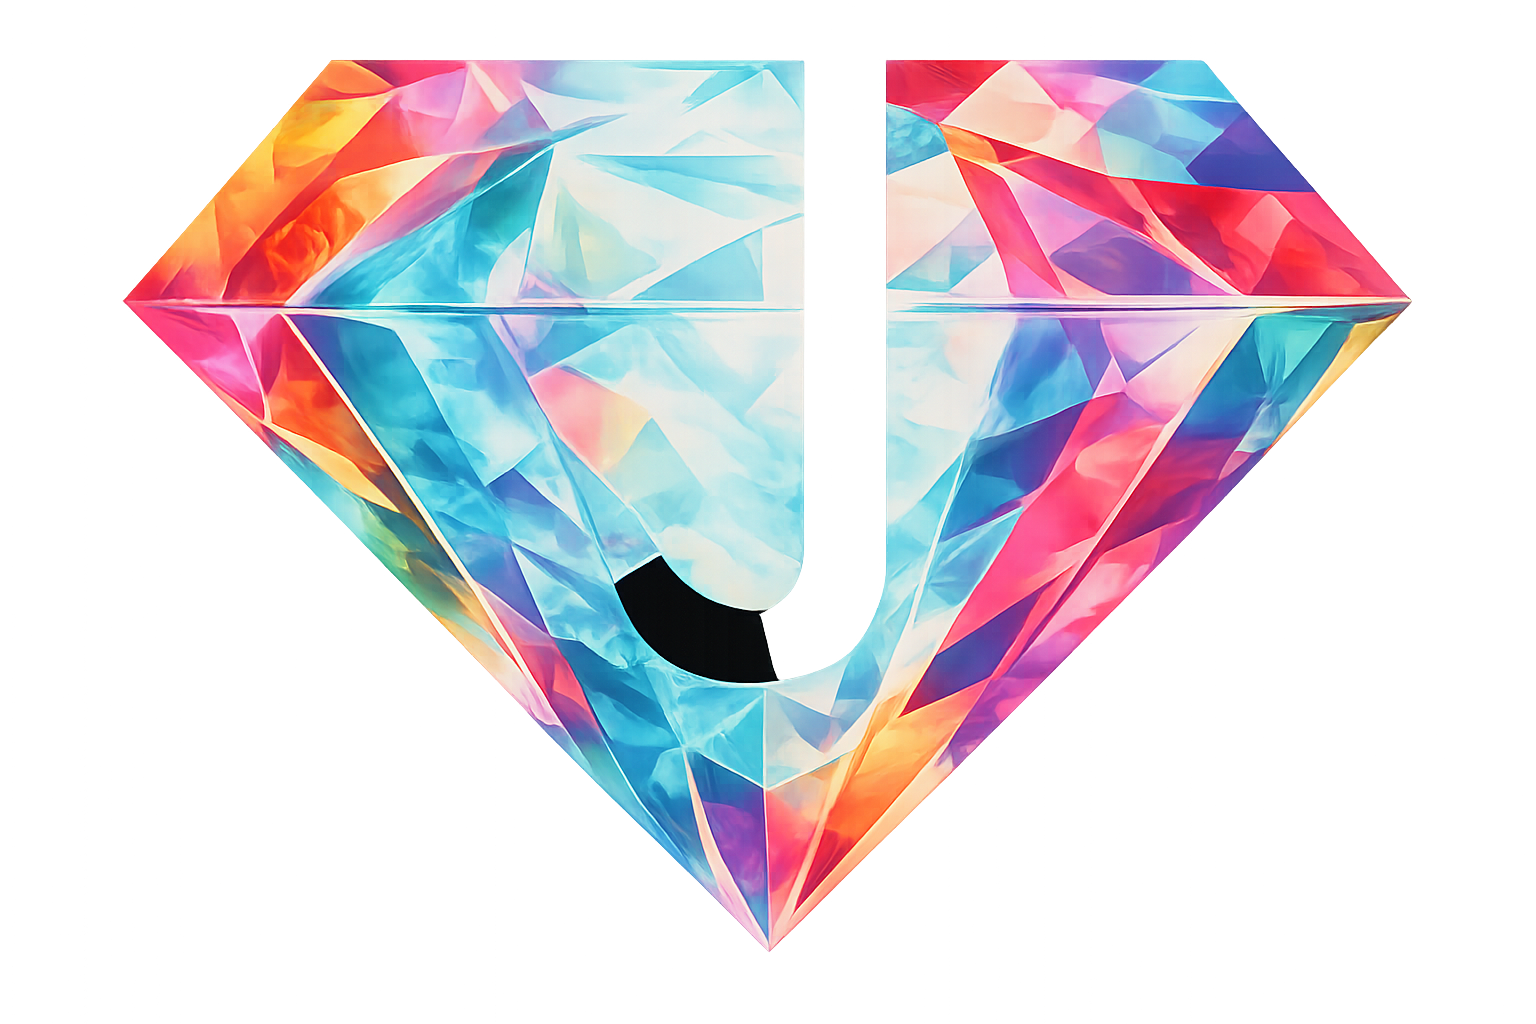
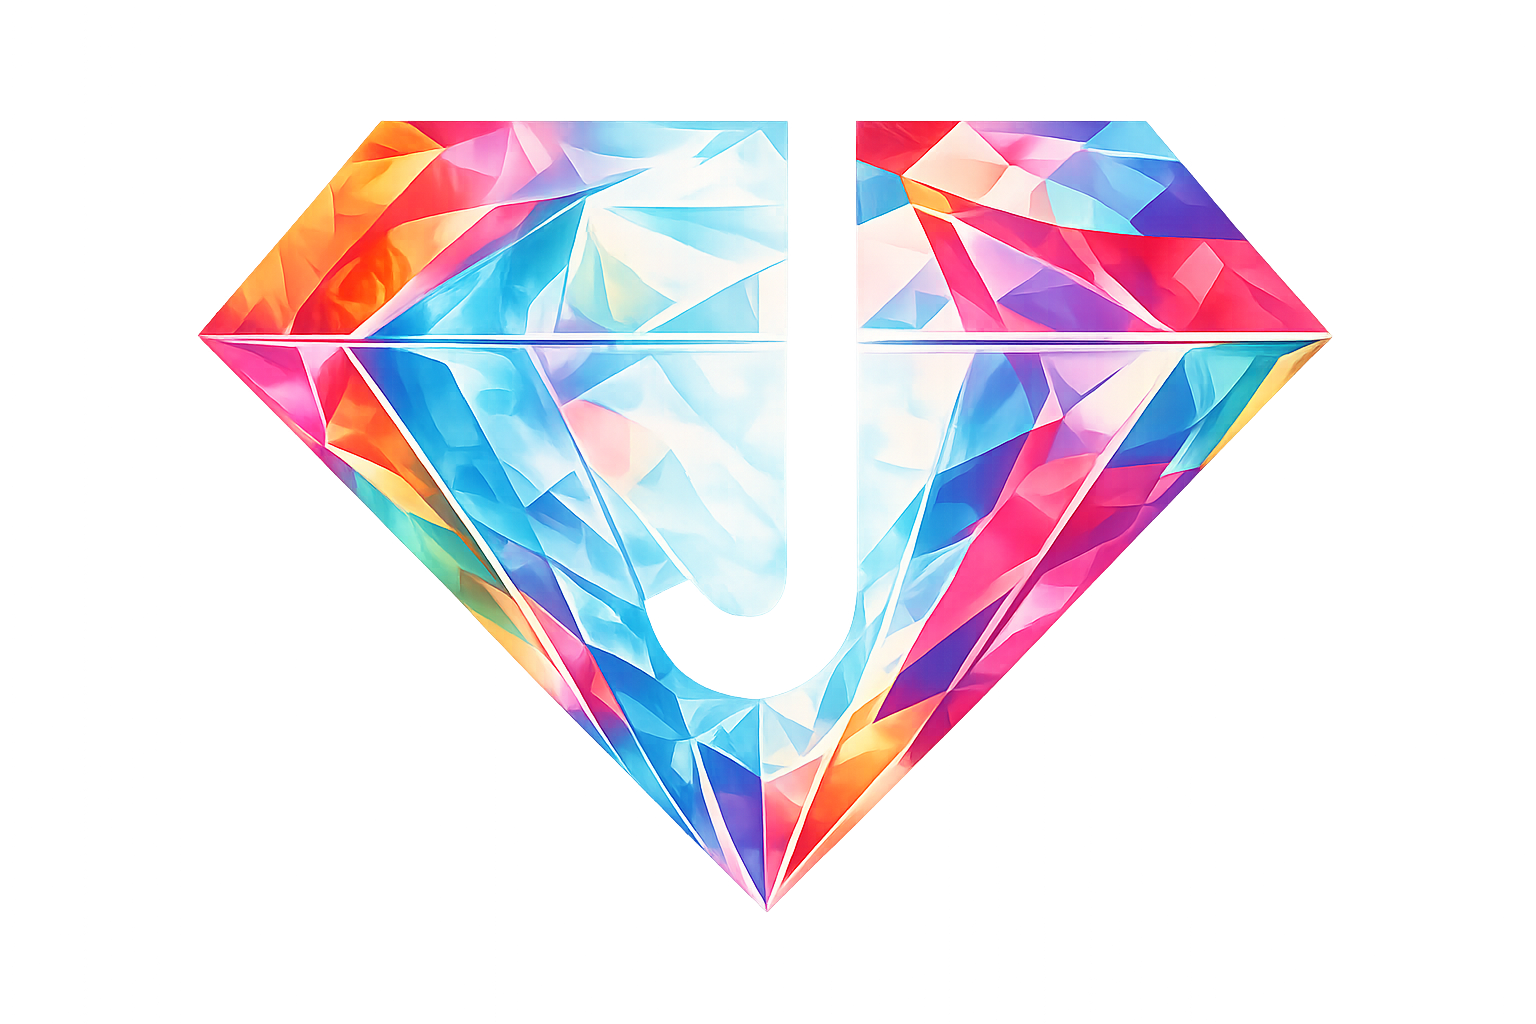
Enhance footer styles by adding border to signature image; improve layout for better visual consistency.

diff --git a/CSS/designs/global/utilities.css b/CSS/designs/global/utilities.css
@@ -294,6 +294,7 @@ a:hover {
     
     border-radius: var(--border-radius-md);
     height: 3.3rem;
+    
 }
 
 .section-footer .footer-signature {
@@ -301,6 +302,7 @@ a:hover {
     border-radius: var(--border-radius-md);
     height: 3.1rem;
     padding: 0.2rem;
+    border: 2px solid var(--brand-primary);
 }
 
 .section-footer-brand {
@@ -316,7 +318,7 @@ a:hover {
     max-height: 60px;
     height: auto;
     transition: transform 0.2s ease, box-shadow 0.2s ease;
-
+    
     border-radius: var(--border-radius-md);
 }
 .section-footer-brand img:hover {